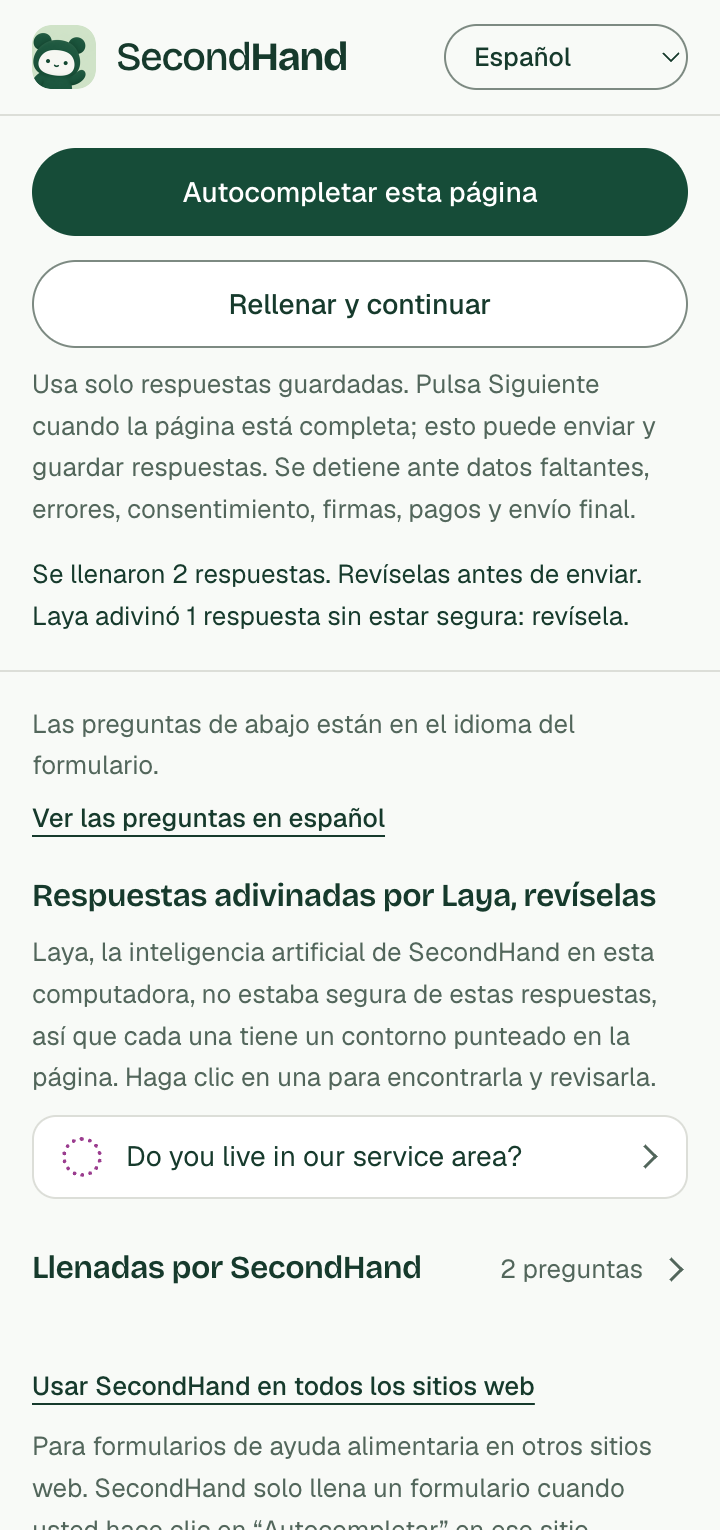
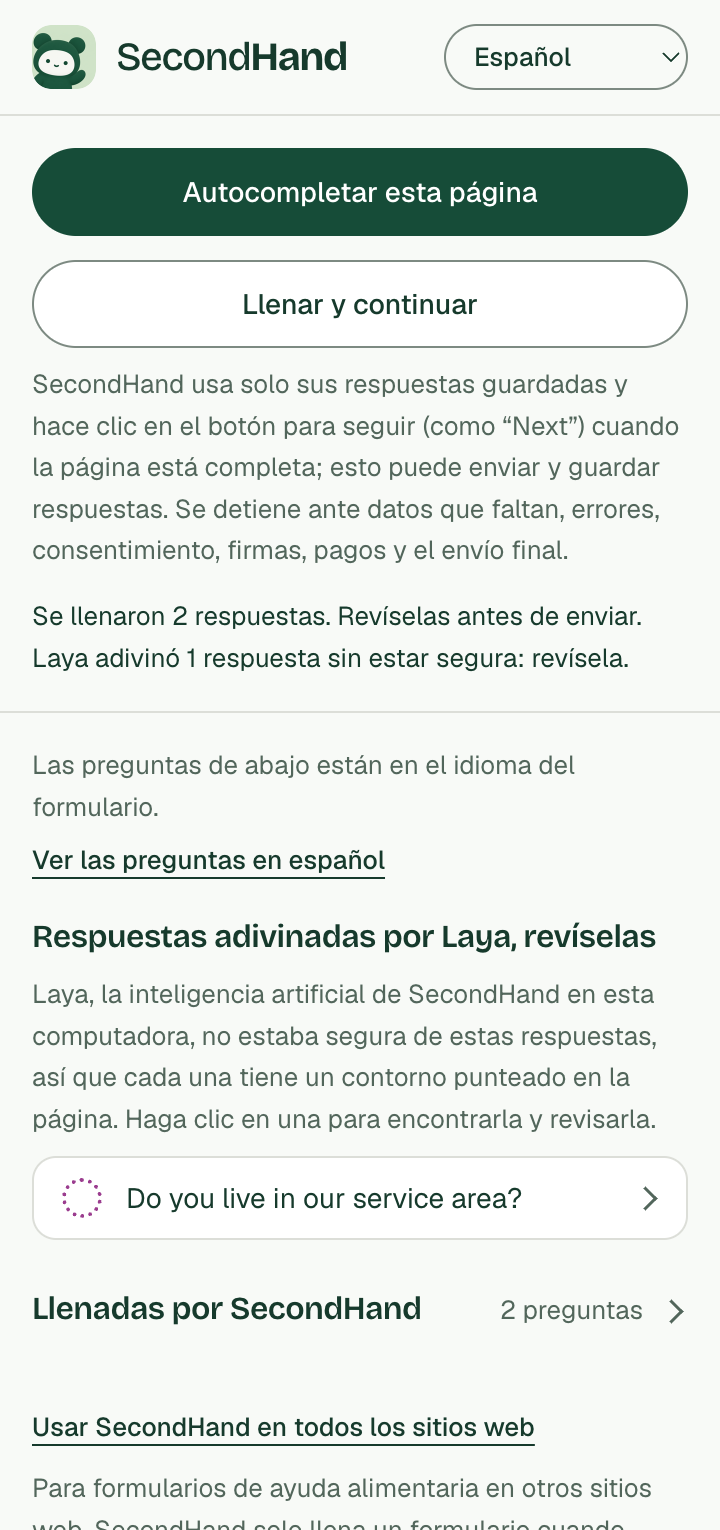
fix: Spanish for Fill and continue in the words the rest of the panel uses
"Rellenar y continuar" and "Usa solo respuestas guardadas. Pulsa Siguiente..."
read as Spain's Spanish and as tú to a Spanish reader, and named a Siguiente button
an English-only form doesn't have. They are now "Llenar y continuar" and
"SecondHand usa solo sus respuestas guardadas y hace clic en el botón para seguir
(como “Next”)...". "Ninguna pregunta de aquí" becomes "de esta página".

diff --git a/extension/strings.js b/extension/strings.js
@@ -512,8 +512,8 @@
 
   // Needs a human Spanish review before release (see the #34 notes).
   const es = Object.freeze({
-    "panel.fillAndContinue": "Rellenar y continuar",
-    "panel.fillAndContinueHint": "Usa solo respuestas guardadas. Pulsa Siguiente cuando la página está completa; esto puede enviar y guardar respuestas. Se detiene ante datos faltantes, errores, consentimiento, firmas, pagos y envío final.",
+    "panel.fillAndContinue": "Llenar y continuar",
+    "panel.fillAndContinueHint": "SecondHand usa solo sus respuestas guardadas y hace clic en el botón para seguir (como “Next”) cuando la página está completa; esto puede enviar y guardar respuestas. Se detiene ante datos que faltan, errores, consentimiento, firmas, pagos y el envío final.",
     "worker.siteContinuing": "Página rellenada y Siguiente pulsado. Revisando la siguiente página…",
     "worker.siteOriginChanged": "Se detuvo porque la solicitud pasó a otro sitio web. Inicie de nuevo allí si desea continuar.",
     "worker.siteFillBusy": "Espere a que termine el autocompletado actual.",
@@ -882,7 +882,7 @@
     'result.movesOn': 'SecondHand avanzará cuando no falte nada.',
     'result.needYouNotSaved': 'Por contestar: {count}. No están en su perfil guardado.',
     'result.nothingNew': 'No hay nada nuevo que llenar.',
-    'result.nothingMatches': 'Ninguna pregunta de aquí coincide con sus respuestas en “My information”.',
+    'result.nothingMatches': 'Ninguna pregunta de esta página coincide con sus respuestas en “My information”.',
     'result.noSavedAnswers': 'No hay respuesta guardada para lo que falta.',
     'result.thenTodo': '{summary} {todo}',
     'result.withReason': '{summary} {reason}',
@@ -890,7 +890,7 @@
     'result.siteFilledGuessed': { one: 'Se llenó {count} respuesta · Laya adivinó {guessed}. Revísela antes de enviar.', other: 'Se llenaron {count} respuestas · Laya adivinó {guessed}. Revíselas antes de enviar.' },
     'result.siteFilledNeedYou': { one: 'Se llenó {count} respuesta · {needYou} sin contestar. Revísela antes de enviar.', other: 'Se llenaron {count} respuestas · {needYou} sin contestar. Revíselas antes de enviar.' },
     'result.siteFilledGuessedNeedYou': { one: 'Se llenó {count} respuesta · Laya adivinó {guessed} · {needYou} sin contestar. Revísela antes de enviar.', other: 'Se llenaron {count} respuestas · Laya adivinó {guessed} · {needYou} sin contestar. Revíselas antes de enviar.' },
-    'result.nothingMatchesNeedYou': 'Ninguna pregunta de aquí coincide con sus respuestas en “My information”. {count} sin contestar.',
+    'result.nothingMatchesNeedYou': 'Ninguna pregunta de esta página coincide con sus respuestas en “My information”. {count} sin contestar.',
     'result.siteNeedYou': 'Por contestar: {count}.',
     'result.withHeld': { one: '{summary} {count} dato sensible espera hasta que usted haga clic en “Llenar datos sensibles” en el panel lateral.', other: '{summary} {count} datos sensibles esperan hasta que usted haga clic en “Llenar datos sensibles” en el panel lateral.' },
     'result.withHeldBelow': { one: '{summary} {count} dato sensible espera hasta que usted haga clic en “Llenar datos sensibles”, más abajo.', other: '{summary} {count} datos sensibles esperan hasta que usted haga clic en “Llenar datos sensibles”, más abajo.' },
